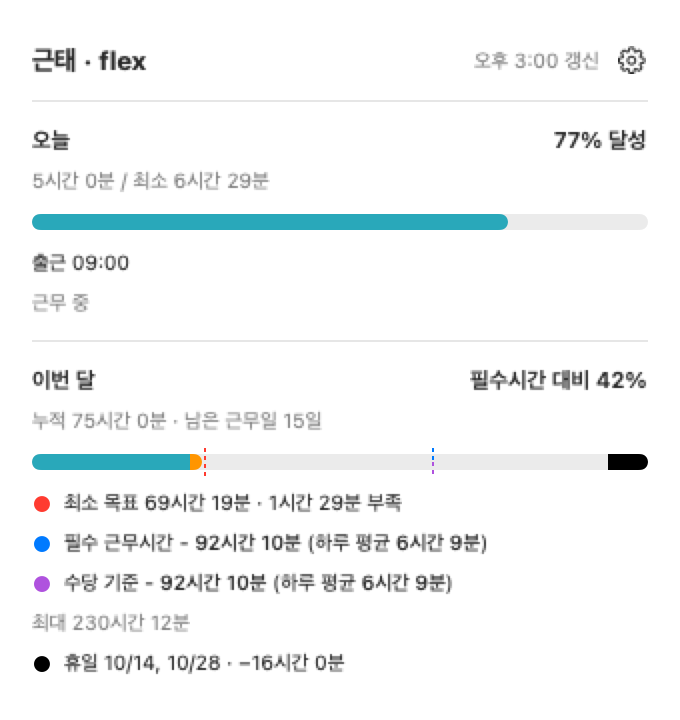
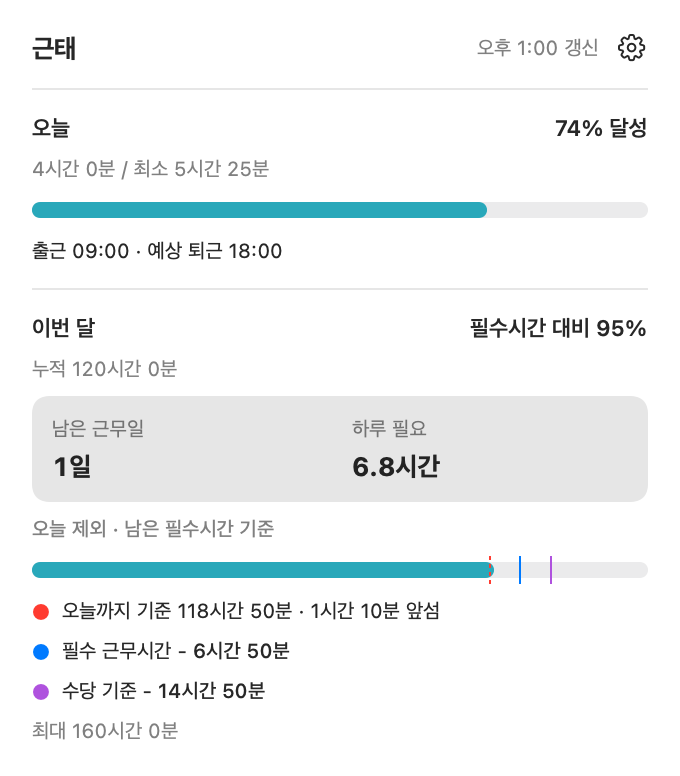
feat(summary): 오늘 제외 남은 근무일과 하루 필요 시간을 별도 표시

diff --git a/Sources/App.swift b/Sources/App.swift
@@ -1185,11 +1185,6 @@ struct MonthSummary: View {
             let liveValue = snapshot.liveWorkClock == nil ? "" :
                 ", 확정 \(AttendanceSnapshot.duration(snapshot.month.creditedMinutes)), 진행 중 \(AttendanceSnapshot.duration(max(0, month.creditedMinutes - snapshot.month.creditedMinutes)))"
             let pace = snapshot.paceDifferenceMinutes
-            // Markdown: rendered with LocalizedStringKey so the remaining and average values are bold.
-            let remaining = { (minutes: Int) in
-                "**\(AttendanceSnapshot.duration(minutes))** (하루 평균 **" +
-                    (snapshot.dailyAverage(for: minutes).map(AttendanceSnapshot.duration) ?? "--") + "**)"
-            }
             let markers: [(position: Double?, color: Color, description: String)] = [
                 (range > 0 ? Double(snapshot.expectedMinutesByNow) / Double(range) : 0, .red,
                  "\(snapshot.dayTitle)까지 기준 \(AttendanceSnapshot.duration(snapshot.expectedMinutesByNow)) · " +
@@ -1197,11 +1192,11 @@ struct MonthSummary: View {
                 (range > 0 ? Double(month.targetMinutes) / Double(range) : 0, .blue,
                  month.balance >= 0
                   ? "필수 근무시간 - \(AttendanceSnapshot.duration(month.balance)) 초과"
-                  : "필수 근무시간 - \(remaining(month.remainingMinutes))"),
+                  : "필수 근무시간 - **\(AttendanceSnapshot.duration(month.remainingMinutes))**"),
                 (compensation.map { range > 0 ? Double($0.thresholdMinutes) / Double(range) : 0 }, .purple,
                  compensation.map {
                      $0.remainingMinutes > 0
-                      ? "수당 기준 - \(remaining($0.remainingMinutes))"
+                      ? "수당 기준 - **\(AttendanceSnapshot.duration($0.remainingMinutes))**"
                       : "수당 기준 - \(AttendanceSnapshot.duration($0.excessMinutes)) 초과"
                  } ?? "수당 기준 확인 불가")
             ]
@@ -1211,8 +1206,27 @@ struct MonthSummary: View {
                 Text("필수시간 대비 \(snapshot.monthMeter.percent)%")
                     .font(.subheadline.weight(.semibold))
             }
-            Text("누적 \(AttendanceSnapshot.duration(month.actualMinutes)) · 남은 근무일 \(snapshot.remainingWorkDays)일")
+            Text("누적 \(AttendanceSnapshot.duration(month.actualMinutes))")
                 .font(.caption)
+                .foregroundStyle(.secondary)
+            HStack(spacing: 12) {
+                VStack(alignment: .leading, spacing: 4) {
+                    Text("남은 근무일").font(.caption).foregroundStyle(.secondary)
+                    Text("\(snapshot.remainingWorkDaysAfterToday)일")
+                        .font(.headline).monospacedDigit()
+                }
+                .frame(maxWidth: .infinity, alignment: .leading)
+                VStack(alignment: .leading, spacing: 4) {
+                    Text("하루 필요").font(.caption).foregroundStyle(.secondary)
+                    Text(snapshot.dailyRequiredHours.map { String(format: "%.1f시간", $0) } ?? "—")
+                        .font(.headline).monospacedDigit()
+                }
+                .frame(maxWidth: .infinity, alignment: .leading)
+            }
+            .padding(10)
+            .background(.quaternary, in: RoundedRectangle(cornerRadius: 8))
+            Text("오늘 제외 · 남은 필수시간 기준")
+                .font(.caption2)
                 .foregroundStyle(.secondary)
             WorkProgressBar(fill: meter.fillFraction, markers: markers,
                             value: "필수시간 반영 \(AttendanceSnapshot.duration(month.creditedMinutes)), 필수시간 대비 \(snapshot.monthMeter.percent)%" + liveValue,

diff --git a/Tests/CoreTests.swift b/Tests/CoreTests.swift
@@ -277,8 +277,22 @@ struct CoreTests {
         precondition(noDays.expectedMinutesByNow == minimumMonth.targetMinutes)
         let unevenSnapshot = AttendanceSnapshot(record: minimumDay, month: unevenMonth,
                                                 remainingWorkDays: 2, updatedAt: morning)
-        precondition(unevenSnapshot.dailyAverage(for: 721) == 361)
-        precondition(noDays.dailyAverage(for: 480) == nil)
+        precondition(unevenSnapshot.remainingWorkDaysAfterToday == 1)
+        precondition(unevenSnapshot.dailyRequiredHours == 721.0 / 60)
+        precondition(noDays.remainingWorkDaysAfterToday == 0 && noDays.dailyRequiredHours == nil)
+        precondition(achieved.dailyRequiredHours == 0)
+        for (day, remainingDays, time) in [(minimumDay, 2, morning), (minimumDay, 1, evening),
+                                          (endedDay, 1, morning), (offDay, 1, morning)] {
+            let future = AttendanceSnapshot(record: day, month: minimumMonth,
+                                            remainingWorkDays: remainingDays, updatedAt: time)
+            precondition(future.remainingWorkDaysAfterToday == 1 && future.dailyRequiredHours == 12)
+        }
+        let lastDay = AttendanceSnapshot(record: minimumDay, month: minimumMonth,
+                                          remainingWorkDays: 1, updatedAt: morning)
+        precondition(lastDay.remainingWorkDaysAfterToday == 0 && lastDay.dailyRequiredHours == nil)
+        var unknown = minimumSnapshot
+        unknown.attendanceKnown = false
+        precondition(unknown.dailyRequiredHours == nil)
         precondition(snapshot.menuTitle == "근무 2시간 30분")
         precondition(AttendanceSnapshot.clock(record.scheduledEnd) == "18:00")
         precondition(AttendanceSnapshot.clock("2026-09-29 18:00:00") == "18:00")

diff --git a/Sources/Core.swift b/Sources/Core.swift
@@ -440,11 +440,13 @@ struct AttendanceSnapshot {
         let target = Int(ceil(Double(remainingBeforeToday) / Double(days)))
         return WorkMeter(actualMinutes: todayMinutes, targetMinutes: target)
     }
-    /// Daily average needed to work `remainingMinutes` over the remaining workdays; nil without workdays.
-    func dailyAverage(for remainingMinutes: Int) -> Int? {
-        let days = remainingDaysIncludingToday
+    var remainingWorkDaysAfterToday: Int {
+        max(0, remainingDaysIncludingToday - (record?.isScheduledWorkday == true ? 1 : 0))
+    }
+    var dailyRequiredHours: Double? {
+        let days = remainingWorkDaysAfterToday
         guard attendanceKnown, days > 0 else { return nil }
-        return Int(ceil(Double(remainingMinutes) / Double(days)))
+        return Double(displayMonth.remainingMinutes) / Double(days) / 60
     }
     var minimumTodayFill: Double {
         guard let meter = minimumTodayMeter else { return 0 }
@@ -464,8 +466,7 @@ struct AttendanceSnapshot {
                          targetMinutes: maximum - month.targetMinutes)
     }
     var expectedMinutesByNow: Int {
-        let futureWorkDays = max(0, remainingDaysIncludingToday - (record?.isScheduledWorkday == true ? 1 : 0))
-        let expected = month.targetMinutes - futureWorkDays * month.dailyRequiredMinutes
+        let expected = month.targetMinutes - remainingWorkDaysAfterToday * month.dailyRequiredMinutes
         return min(max(0, expected), max(0, month.targetMinutes))
     }
     var paceFraction: Double {

diff --git a/Tests/FlexTests.swift b/Tests/FlexTests.swift
@@ -83,6 +83,8 @@ struct FlexTests {
         precondition(live.minimumTodayMeter?.targetMinutes == 486 && live.monthMeter.percent == 41)
         precondition(live.displayMonth.actualMinutes == 4344 && live.displayMonth.creditedMinutes == 3914)
         precondition(live.displayMonth.remainingMinutes == 5686 && live.displayCompensationEstimate?.remainingMinutes == 5686)
+        precondition(live.remainingWorkDaysAfterToday == 11)
+        precondition(live.dailyRequiredHours == 5686.0 / 11 / 60)
         var partlyFinalized = live
         partlyFinalized.liveWorkClock = LiveWorkClock(start: live.liveWorkClock!.start.addingTimeInterval(3600),
             completedMinutes: 60, rests: live.liveWorkClock!.rests, countsTowardTarget: true)
@@ -108,6 +110,7 @@ struct FlexTests {
         precondition(ticking.updatedAt == live.updatedAt && ticking.month.actualMinutes == 4200)
         precondition(ticking.month.creditedMinutes == 3770 && ticking.minimumTodayMeter?.targetMinutes == 486)
         precondition(ticking.displayMonth.actualMinutes == 4345 && ticking.monthMeter.actualMinutes == 3915)
+        precondition(ticking.dailyRequiredHours == 5685.0 / 11 / 60)
         ticking.advanceLiveTime(to: try FlexDates.parse("2026-10-15T13:30:00"))
         precondition(ticking.todayMinutes == resting.todayMinutes && ticking.attendanceNote == resting.attendanceNote)
         ticking.advanceLiveTime(to: try FlexDates.parse("2026-10-15T13:59:59"))

diff --git a/Tests/MenuTests.swift b/Tests/MenuTests.swift
@@ -269,6 +269,8 @@ struct MenuTests {
         // Four hours against a six-hour minimum fills 2/3, rather than the fixed eight-hour 1/2.
         let working = DailyRecord(date: date, start: start, scheduledEnd: scheduledEnd,
                                   currentMinutes: 240, holidayStatus: workday)
+        let (_, decimalTexts) = try await render(working, required: 7610, name: "daily-required")
+        precondition(decimalTexts.joined().contains("6.8시간"), decimalTexts.joined())
         let (bitmap, texts) = try await render(working, name: "working")
         precondition(texts.contains("4시간0분/최소6시간0분"))
         precondition(texts.contains("67%달성"))
@@ -279,7 +281,6 @@ struct MenuTests {
         precondition(texts.contains { $0.contains("출근09:00") })
         precondition(texts.contains { $0.contains("예상퇴근18:00") })
         precondition(texts.joined().contains("오늘까지기준120시간0분"))
-        precondition(texts.joined().contains("필수근무시간-") && texts.joined().contains("(하루평균"))
         precondition(texts.joined().contains("수당기준-"))
         precondition(texts.contains { $0.contains("필수시간대비94%") })
         precondition(texts.contains { $0.contains("최대160시간0분") })

diff --git a/Tests/FlexViewTests.swift b/Tests/FlexViewTests.swift
@@ -66,8 +66,8 @@ struct FlexViewTests {
         precondition(model.loginCompleted)
         let menuText = try render(WorkMenu(model: model), "menu", width: 340, height: 680)
         precondition(menuText.contains("근무중") && !menuText.contains("서버기록기준") && !menuText.contains("추정"), menuText)
-        precondition(menuText.contains("누적75시간0분") && menuText.contains("근무일15일"), menuText)
-        precondition(menuText.contains("필수근무시간-92시간10분(하루평균6시간9분)"), menuText)
+        precondition(menuText.contains("누적75시간0분"), menuText)
+        precondition(menuText.contains("14일") && menuText.contains("6.6시간"), menuText)
         precondition(menuText.contains("92시간10분") && menuText.contains("230시간12분"), menuText)
         precondition(menuText.contains("휴일10/14,10/28") && menuText.contains("16시간0분"), menuText)
         precondition(!menuText.contains("설정기준"), menuText)

diff --git a/README.md b/README.md
@@ -2,6 +2,10 @@
 
 원티드스페이스·flex 근무시간을 macOS 메뉴 막대에 보여주는 앱입니다.
 
+월간 요약의 **남은 근무일**과 **하루 필요**는 오늘을 제외한 근무일 기준입니다.
+오늘까지 반영된 실적을 뺀 남은 필수시간을 나누어 소수점 한 자리로 표시합니다(6시간 50분 → 6.8시간).
+남은 근무일이 없으면 하루 필요는 `—`로 표시하며, 오늘의 최소 근무 목표는 별도로 유지합니다.
+
 <p>
   <img src="docs/images/menu.png" width="340" alt="오늘 진행률과 이번 달 누적 근무 패널">
   <img src="docs/images/options.png" width="440" alt="연동 서비스, 출근 확인 알림, 사용자 지정 휴일 옵션">
